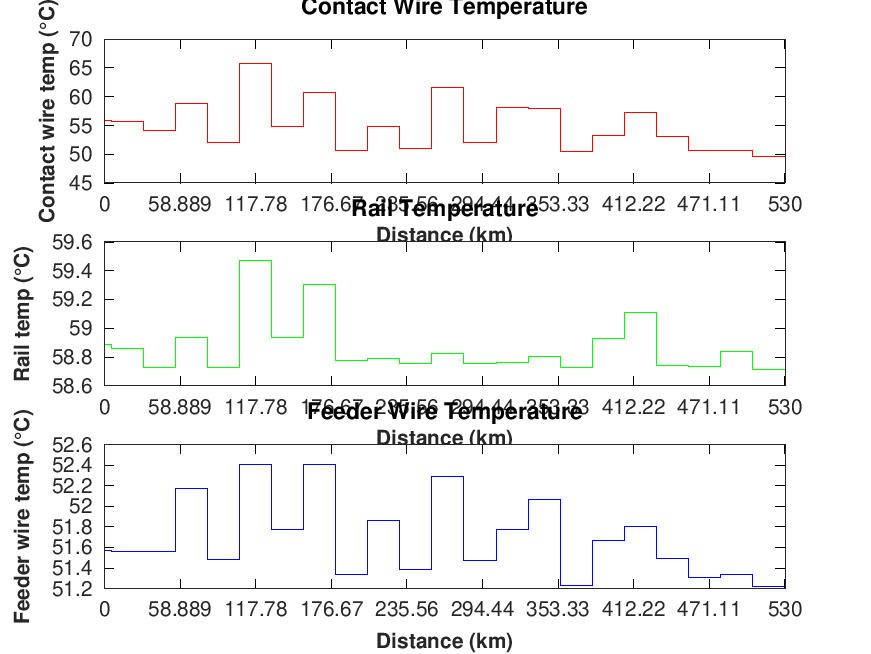
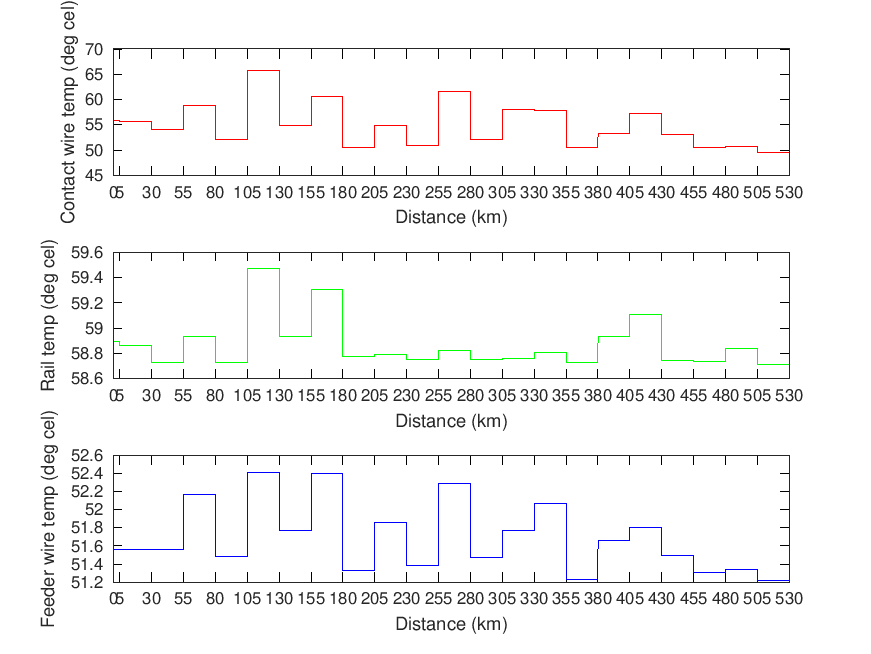
OHE Graph fix

diff --git a/OHE_temp/normal/OHE_temp_cal_up_track_time.m b/OHE_temp/normal/OHE_temp_cal_up_track_time.m
@@ -340,55 +340,33 @@ function OHE_temp_cal_up_track_time(time_instant, Ic_line_mag_Td_up, Ir_line_mag
             track_temp_f(i_f,1)=T_f_track((i_e-1)*y+time_instant);
         end
     end
-    figureHandle = figure;
+   figureHandle = figure;
 
     % Get screen size from root object (0)
     screenSize = get(0, 'ScreenSize');
 
     % Set the figure to match the screen size
-    set(figureHandle, 'Position', [100, 100, 2500, 2000]);
+    set(figureHandle, 'Position', [100, 100, 1830, 1300]);
 
-    % Main figure with title
     figure('Name','OHE Temperature Along the Track at a Particular Time Instant')
+    subplot(3,1,1)
+    plot(track_distance/1000,track_temp_c,"color",'r')
+    xlabel('Distance (km)')
+    ylabel('Contact wire temp (deg cel)')
+    subplot(3,1,2)
+    plot(track_distance/1000,track_temp_r,"color",'g')
+    xlabel('Distance (km)')
+    ylabel('Rail temp (deg cel)')
+    subplot(3,1,3)
+    plot(track_distance/1000,track_temp_f,"color",'b')
+    xlabel('Distance (km)')
+    ylabel('Feeder wire temp (deg cel)')
 
-    set(gcf, 'PaperPositionMode', 'auto');  % Ensures proper scaling
-
-    % First subplot - Contact Wire Temperature
-    subplot('Position', [0.12 0.72 0.78 0.22])  % [left bottom width height]
-    plot(track_distance/1000, track_temp_c, "color", 'r', 'LineWidth', 1.5)
-    xlabel('Distance (km)', 'FontSize', 10, 'FontWeight', 'bold')
-    ylabel('Contact wire temp (°C)', 'FontSize', 10, 'FontWeight', 'bold')
-    title('Contact Wire Temperature', 'FontSize', 11, 'FontWeight', 'bold')
-
-    % Second subplot - Rail Temperature (shifted down)
-    subplot('Position', [0.12 0.41 0.78 0.22])
-    plot(track_distance/1000, track_temp_r, "color", 'g', 'LineWidth', 1.5)
-    xlabel('Distance (km)', 'FontSize', 10, 'FontWeight', 'bold')
-    ylabel('Rail temp (°C)', 'FontSize', 10, 'FontWeight', 'bold')
-    title('Rail Temperature', 'FontSize', 11, 'FontWeight', 'bold')
-
-    % Third subplot - Feeder Wire Temperature (shifted down further)
-    subplot('Position', [0.12 0.10 0.78 0.22])
-    plot(track_distance/1000, track_temp_f, "color", 'b', 'LineWidth', 1.5)
-    xlabel('Distance (km)', 'FontSize', 10, 'FontWeight', 'bold')
-    ylabel('Feeder wire temp (°C)', 'FontSize', 10, 'FontWeight', 'bold')
-    title('Feeder Wire Temperature', 'FontSize', 11, 'FontWeight', 'bold')
-
-    % Find all axes in the figure
-    allAxes = findall(gcf, 'Type', 'axes');
-
-    % Adjust X-axis ticks for better readability
-    set(allAxes, 'XLim', [0 d(end)/1000], 'XTick', linspace(0, d(end)/1000, 10), 'FontSize', 10);
-
-    % Rotate X-axis labels for better readability
-    for ax = allAxes'
-        xtickangle(ax, 45);
-    end
-
-    % Improve figure aesthetics
-    set(gcf, 'Color', 'w'); % White background
-    set(gca, 'FontSize', 10, 'LineWidth', 1.5);
-
+    
+    allAxes = findall(gcf, 'Type', 'axes'); % Find all axes in the current figure
+    set(allAxes, 'XLim', [0 d(end)/1000], 'XTick', d/1000, 'FontSize', 8); % Set font size and weight
+    allLines = findall(gcf, 'Type', 'line'); % Find all line objects in the figure
+    set(allLines, 'LineWidth', 1.2);          % Set the line width to 1.5
     % Save the figure
     desired_filename = '../../Plots_OHE/OHE_temp_cal_up_track_time.png';
     saveas(gcf, desired_filename);

diff --git a/OHE_temp/normal/OHE_temp_cal_down_track_time.m b/OHE_temp/normal/OHE_temp_cal_down_track_time.m
@@ -364,9 +364,9 @@ function OHE_temp_cal_down_track_time(time_instant, Ic_line_mag_Td_down, Ir_line
 
     
     allAxes = findall(gcf, 'Type', 'axes'); % Find all axes in the current figure
-    set(allAxes, 'XLim', [0 d(end)/1000], 'XTick', d/1000, 'FontSize', 12, 'FontWeight', 'bold'); % Set font size and weight
+    set(allAxes, 'XLim', [0 d(end)/1000], 'XTick', d/1000, 'FontSize', 8); % Set font size and weight
     allLines = findall(gcf, 'Type', 'line'); % Find all line objects in the figure
-    set(allLines, 'LineWidth', 1.5);          % Set the line width to 1.5
+    set(allLines, 'LineWidth', 1.2);          % Set the line width to 1.5
     desired_filename = '../../Plots_OHE/OHE_temp_cal_down_track_time.png';
     saveas(gcf, desired_filename);
 
